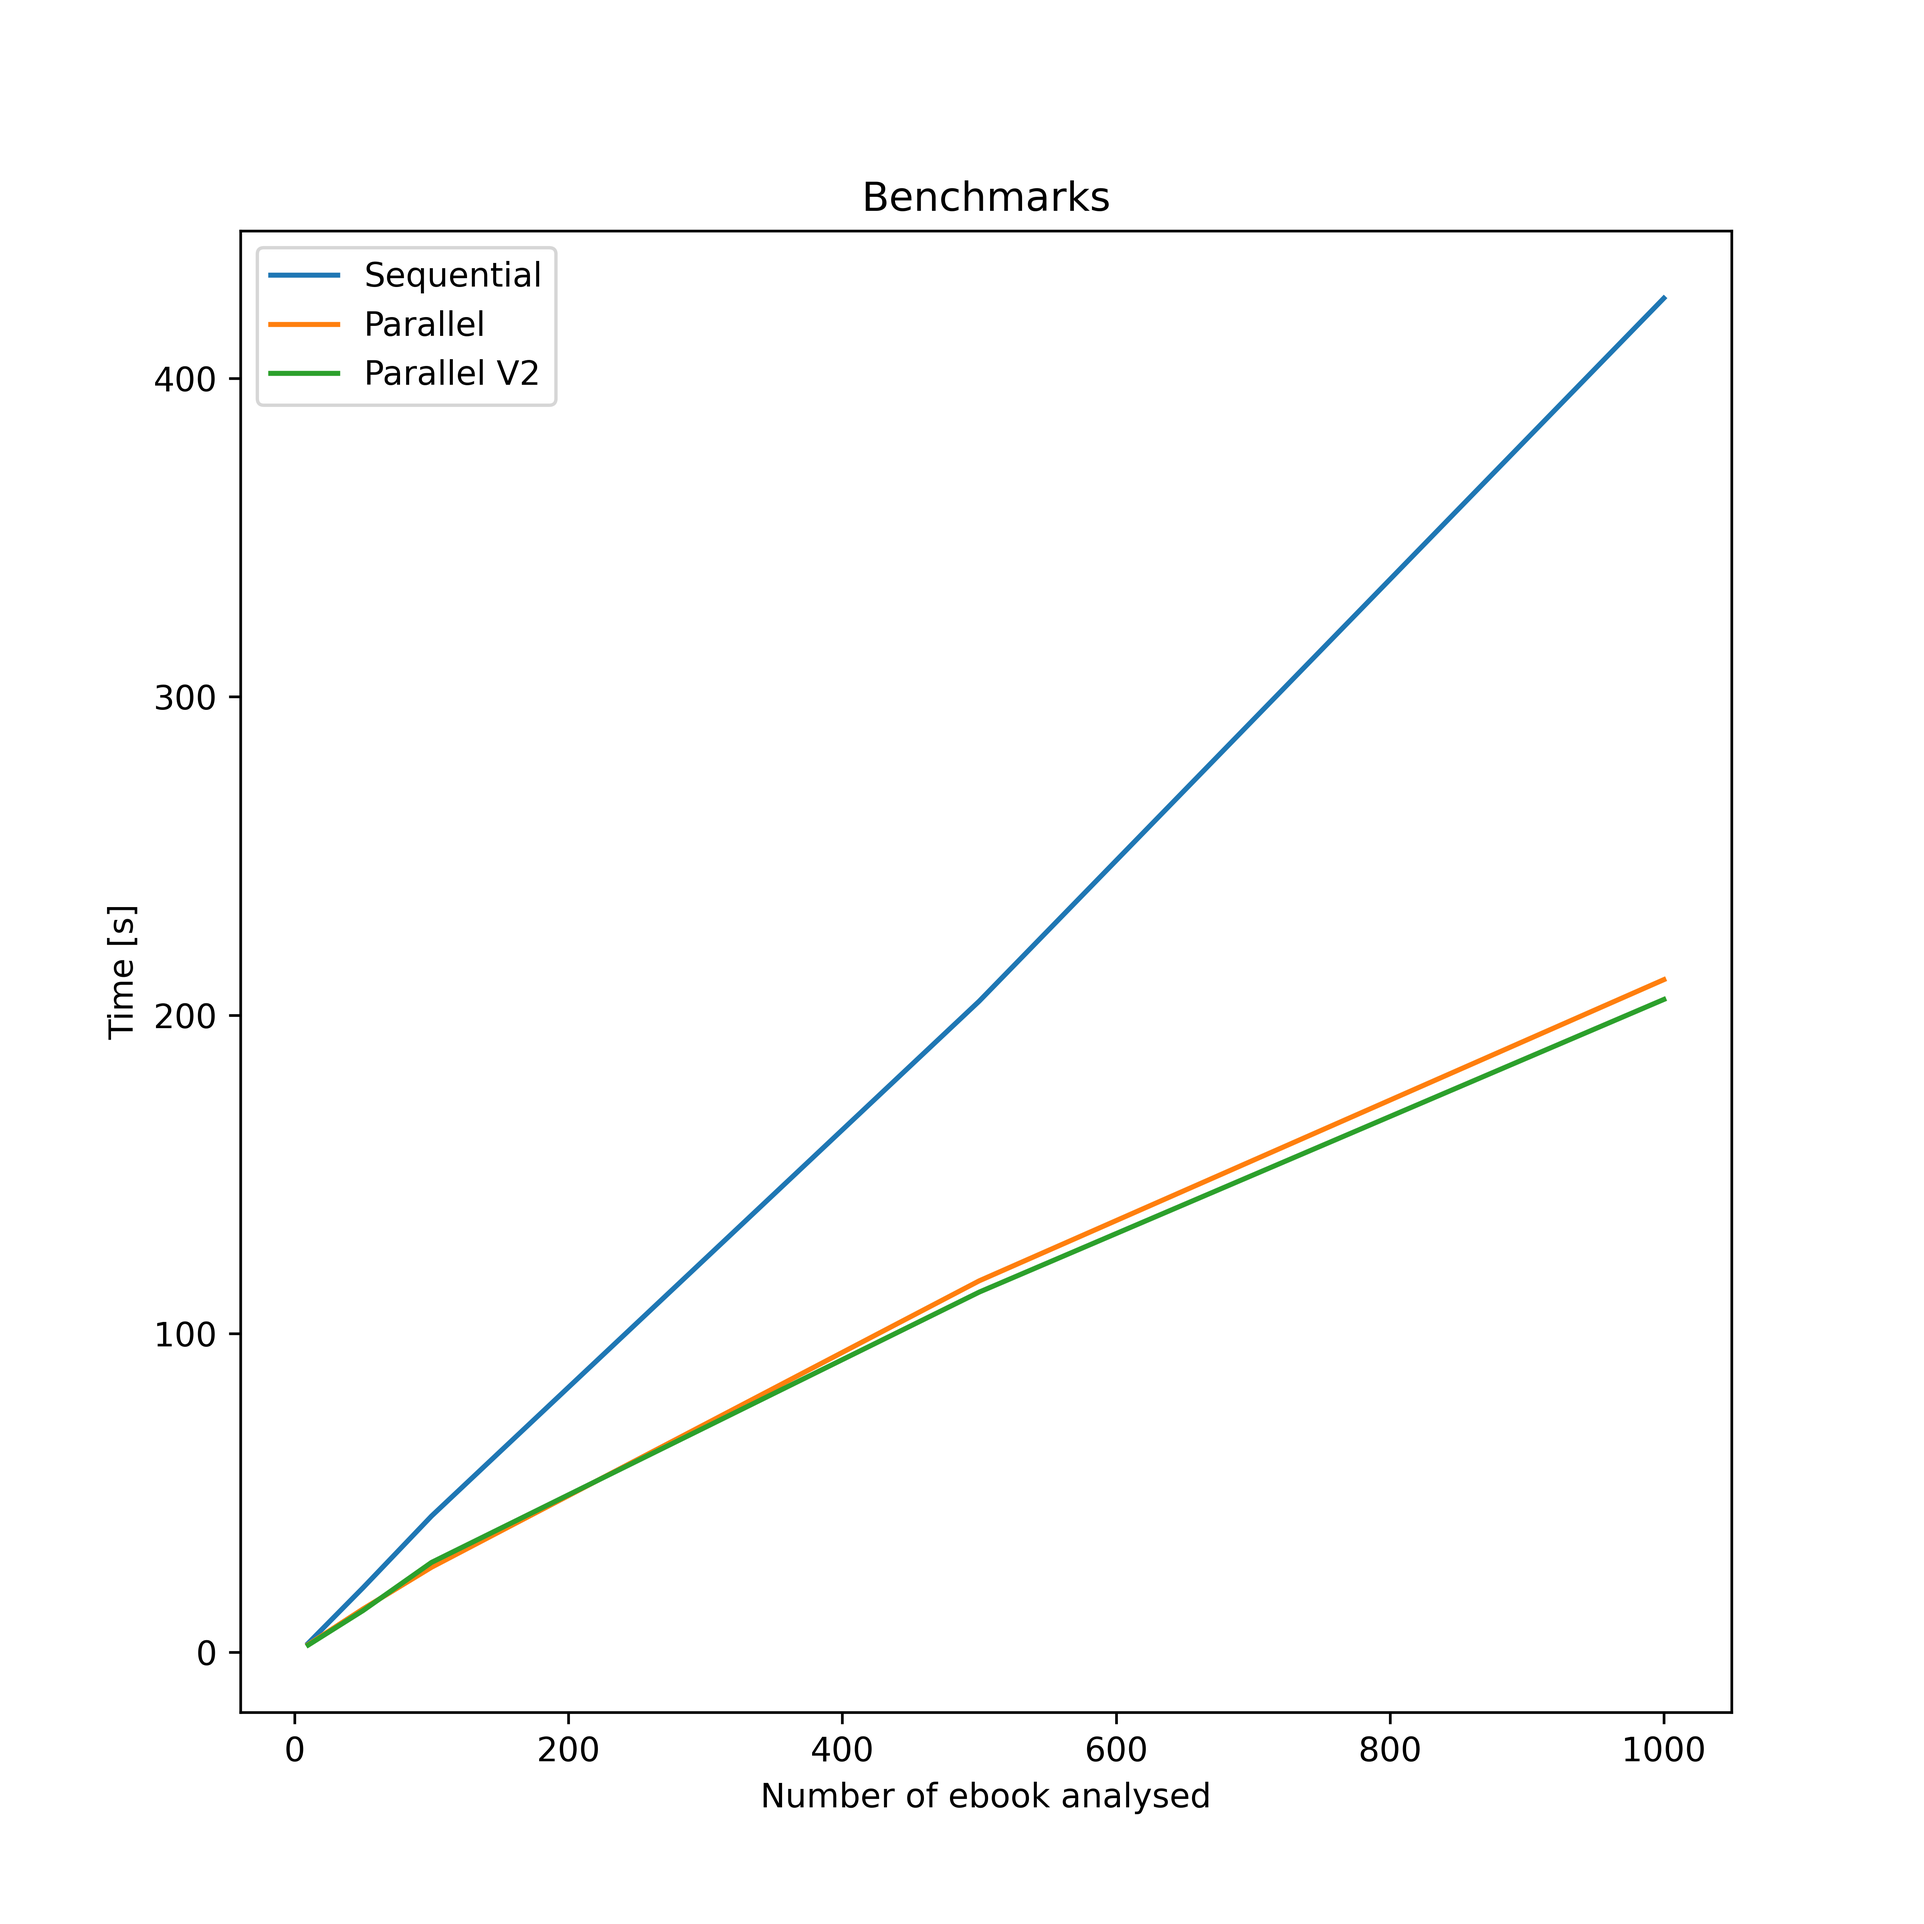
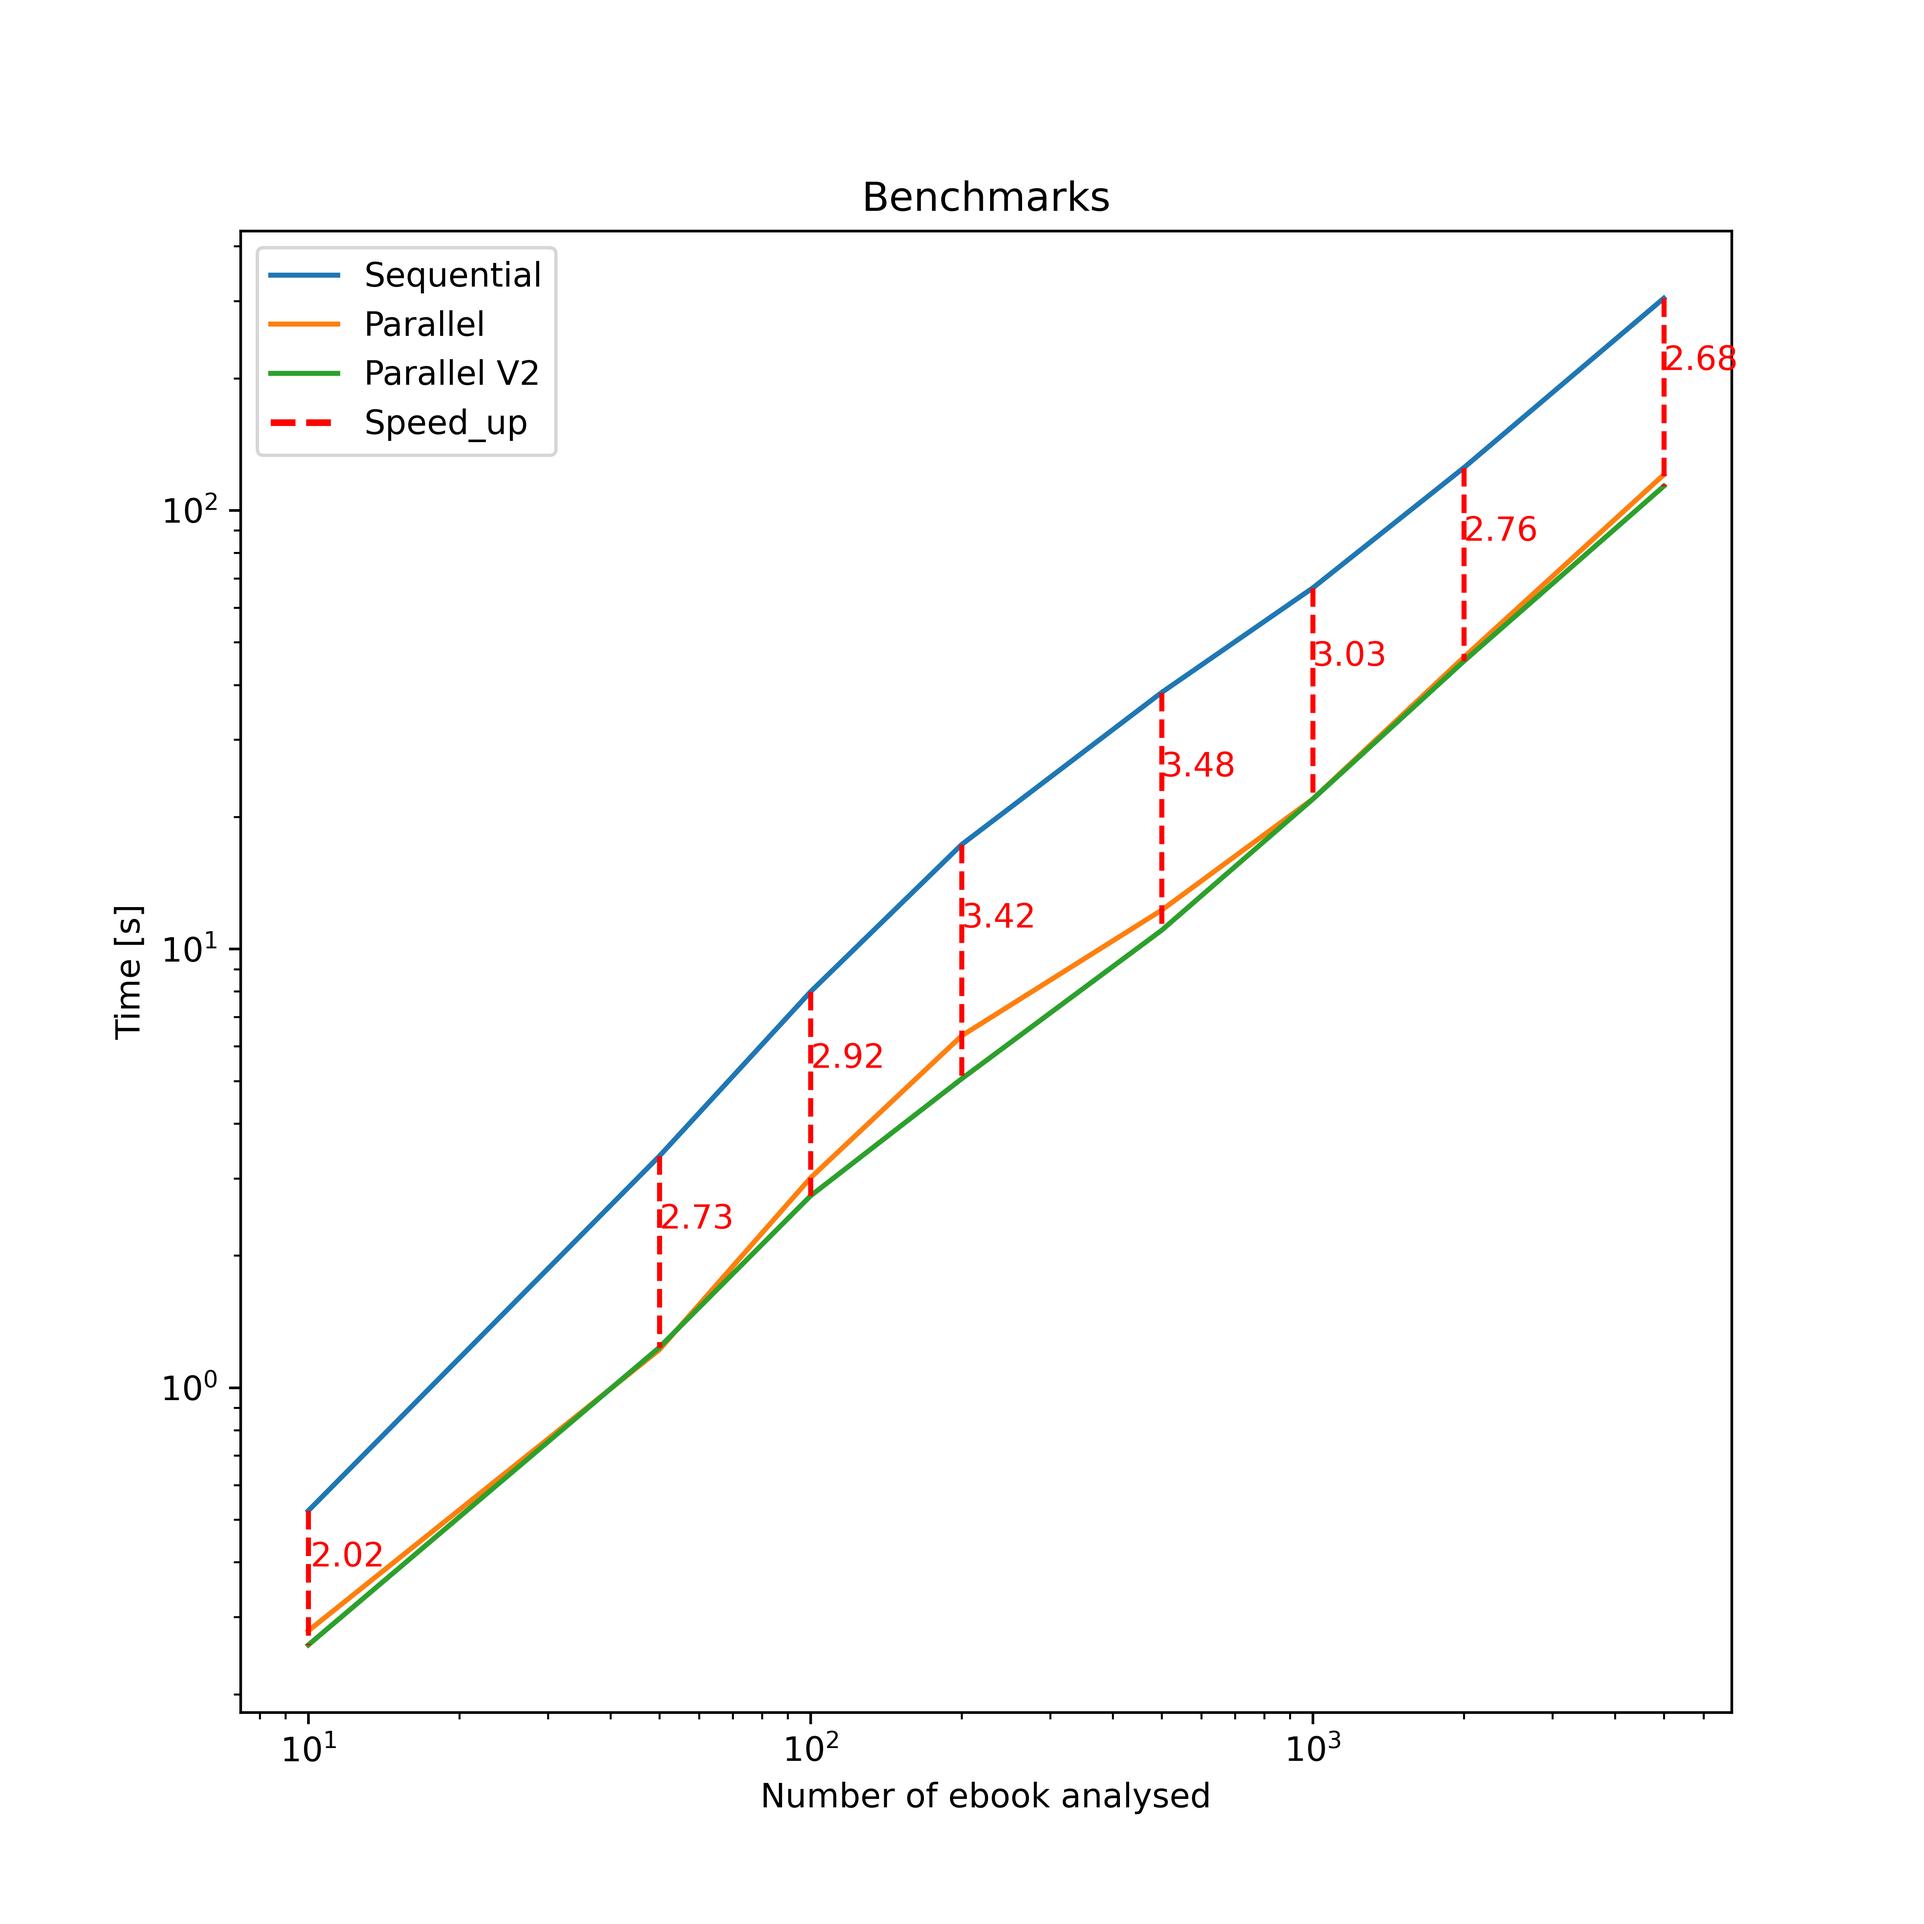
Updated benchmarks graph

diff --git a/graph_tracer.py b/graph_tracer.py
@@ -1,12 +1,13 @@
 import matplotlib.pyplot as plt
+from matplotlib.lines import Line2D
 import json
 
 
 def main():
 
-    with open("./media/benchmarks_backup.json",'r') as json_file:
+    # load benchmarks data
+    with open("./media/benchmarks.json",'r') as json_file:
         benchmarks = json.load(json_file)
-        # print(benchmarks)
 
     x_axis = [benchmark["ebook_num"] for benchmark in benchmarks]
     y_axis_seq = [round(sum(benchmark["seq_timings"])/len(benchmark["seq_timings"]), 3) for benchmark in benchmarks]
@@ -15,17 +16,31 @@ def main():
     
     fig, ax = plt.subplots(figsize=(8, 8))
 
-    ax.plot(x_axis, y_axis_seq, label="Sequential")
+    ax.plot(x_axis, y_axis_seq, label="Sequential",)
     ax.plot(x_axis, y_axis_par, label="Parallel")
     ax.plot(x_axis, y_axis_parV2, label="Parallel V2")
-    
+    ax.set_xscale('log')
+    ax.set_yscale('log')
 
-    # Add labels and title
+    # plot vertical lines
+    differences = [(y_seq / y_parV2) for y_seq, y_parV2 in zip(y_axis_seq, y_axis_parV2)]
+
+    for x, y_seq, y_parV2, diff in zip(x_axis, y_axis_seq, y_axis_parV2, differences):
+        ax.plot([x, x], [y_seq, y_parV2], 'r--')
+        ax.text(x + 0.1, (y_seq + y_parV2) / 2, f"{round(diff, 2)}", color='red')
+
+    custom_legend = Line2D([0], [0], color='red', linestyle='--', linewidth=2, markersize=5)
+
     ax.set_xlabel('Number of ebook analysed')
     ax.set_ylabel('Time [s]')
     ax.set_title('Benchmarks')
 
-    ax.legend()
+    # Combine default and custom legends
+    handles, labels = plt.gca().get_legend_handles_labels()
+    handles.append(custom_legend)
+    labels.append('Speed_up')
+
+    ax.legend(handles=handles, labels=labels, loc='upper left')
     fig.savefig("./media/benchmarks.png", dpi=600)
     plt.show()
 
